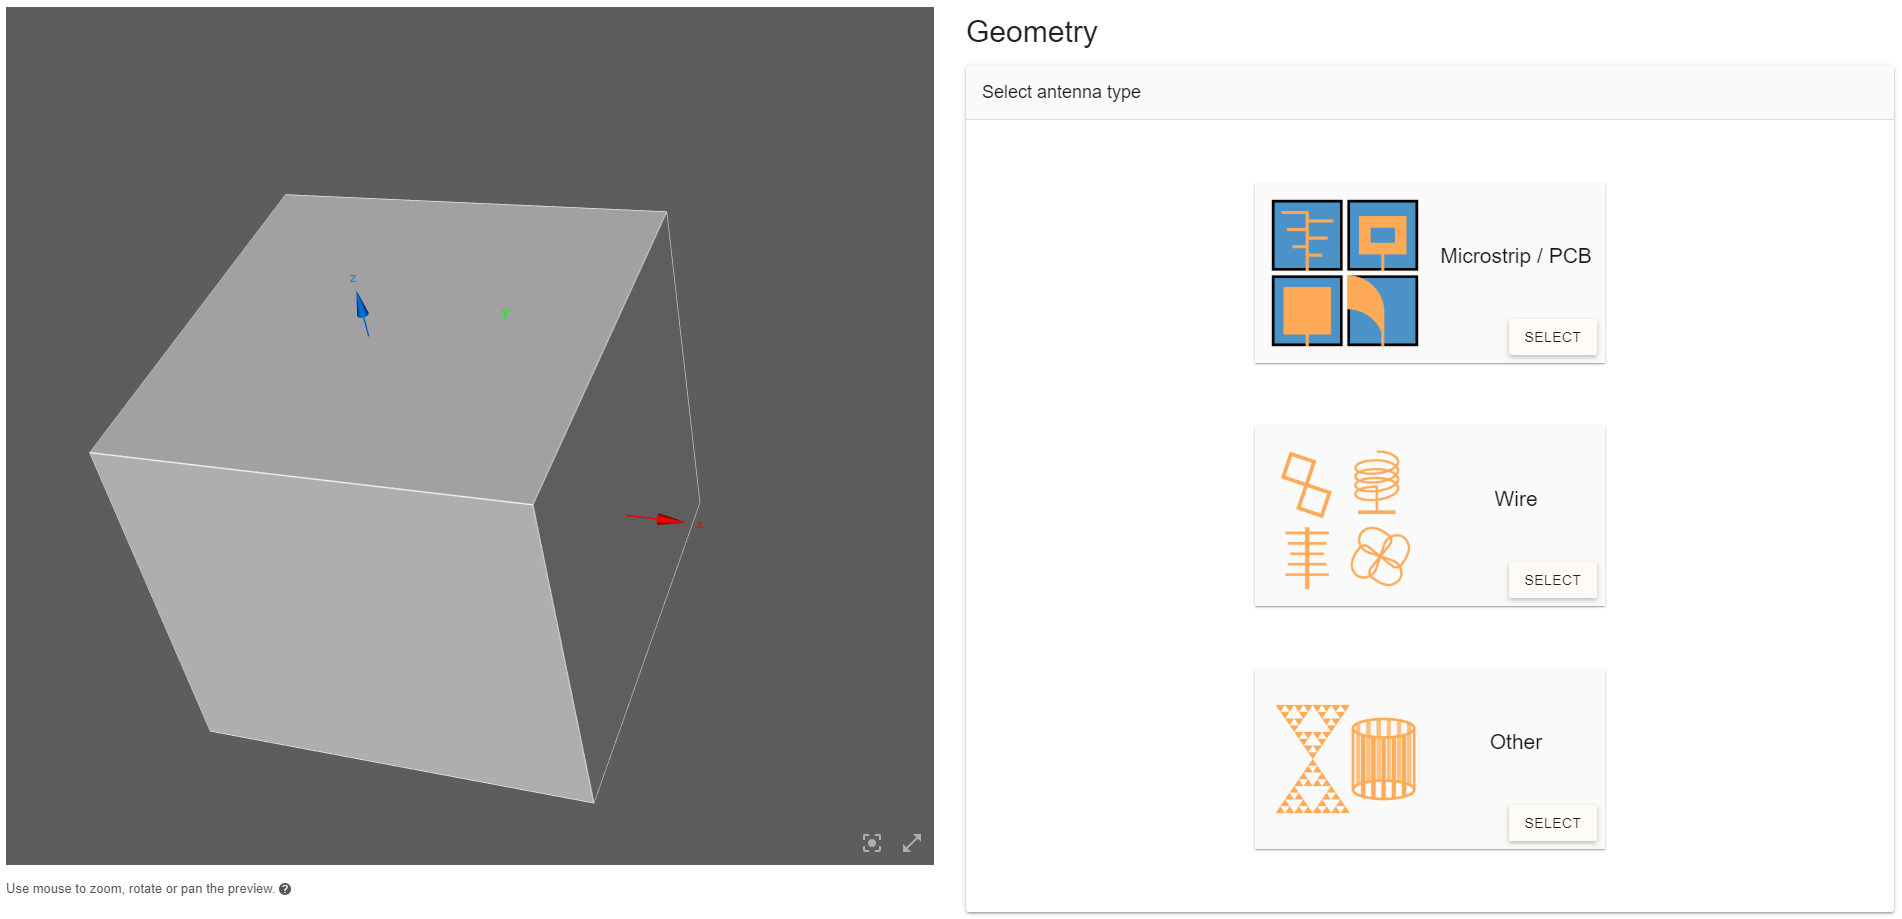
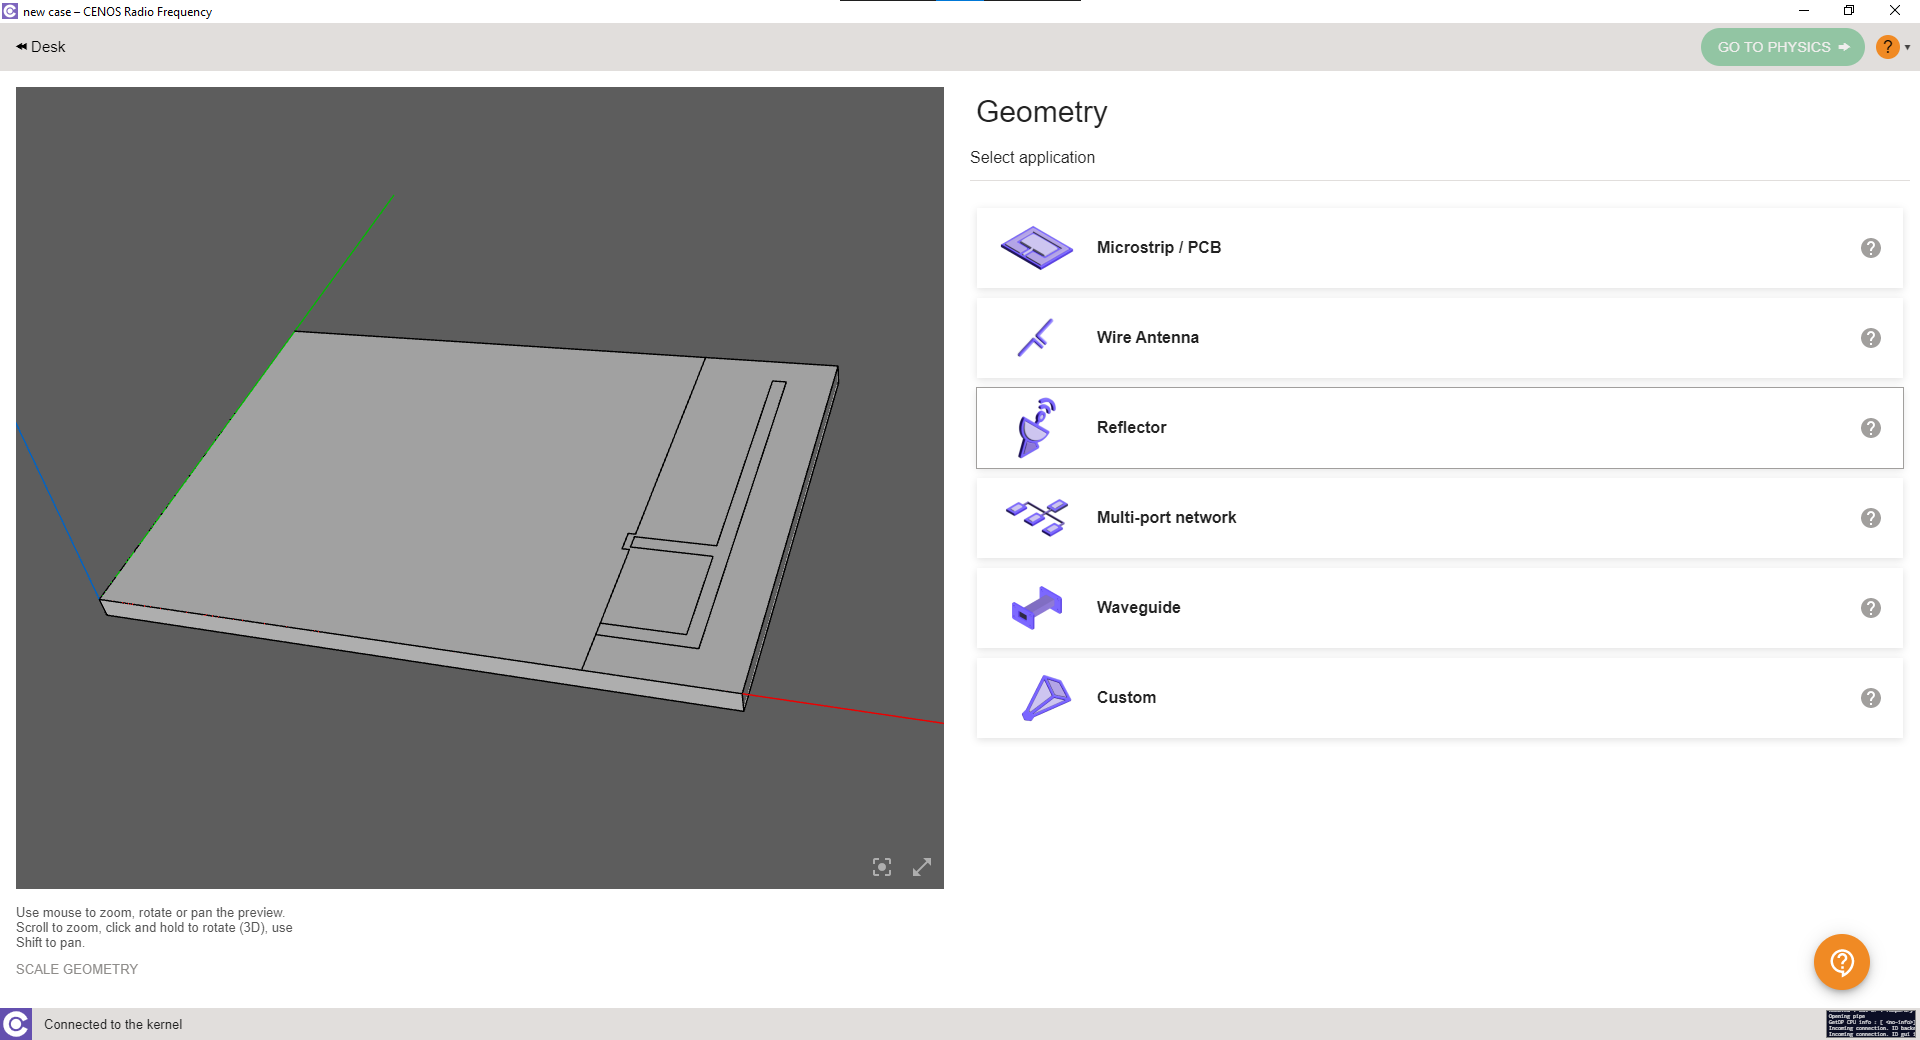
Update to Geometry roles (#6)
* Change IH to RF app properties image

Changed image for app properties to RF from IH.

* Add path with spacing disclaimer

Batch running will not work if the path contains spaces, so I added a note disclosing this issue.

* Moved path spacing disclaimer after image

* Path image visibility and quotation mark update

* Update to Notepad screenshot

Changed notepad screenshot to include quotation marks

* Path disclaimer placement and visibility update

Changed the path disclaimer from Note to Important Warning, changed previous "Important" message into

* Update to case folder image

* Phrasing update

* Update link to sending geometry

Link was old and didn't lead to correct site, added correct link

* Change image for application types

Replaced old image with new image that has the new application types

* Add new application types

Updated text to include new application types

* Undo fix to link

* Change antenna to RF model

* Antenna to RF model

diff --git a/docs/geometry-roles.md b/docs/geometry-roles.md
@@ -4,7 +4,7 @@ title: Geometry roles
 sidebar_label: Geometry roles
 ---
 
-Once you have imported your CAD file and **[sent it to CENOS](geometry-creation#getting-the-geometry-to-cenos)**, you will need to **define volumes and surfaces of your antenna**.
+Once you have imported your CAD file and **[sent it to CENOS](geometry-creation#getting-the-geometry-to-cenos)**, you will need to **define volumes and surfaces of your RF model**.
 
 **Watch a short video on how to define roles in CENOS Radio Frequency app**:
 
@@ -16,14 +16,14 @@ Once you have imported your CAD file and **[sent it to CENOS](geometry-creation#
 
 ---
 
-### Select the type of your antenna.
+### Select the type of your model.
 
-First you need to **select the type of your antenna** - *PCB*, *Wire* or *Other*.
+First you need to **select the type of your model** - *Microstrip/PCB*, *Wire Antenna*, *Reflector*, *Multi-port network*, *Waveguide* or *Custom*.
 
 ![assets/overview/Untitled27.png](assets/roles/1.png)
 
 :::note tip
-If you want to **change selected antenna type**, click *Reset geometry type*.
+If you want to **change selected model type**, click *Reset geometry type*.
 
 <p align="center">
 
